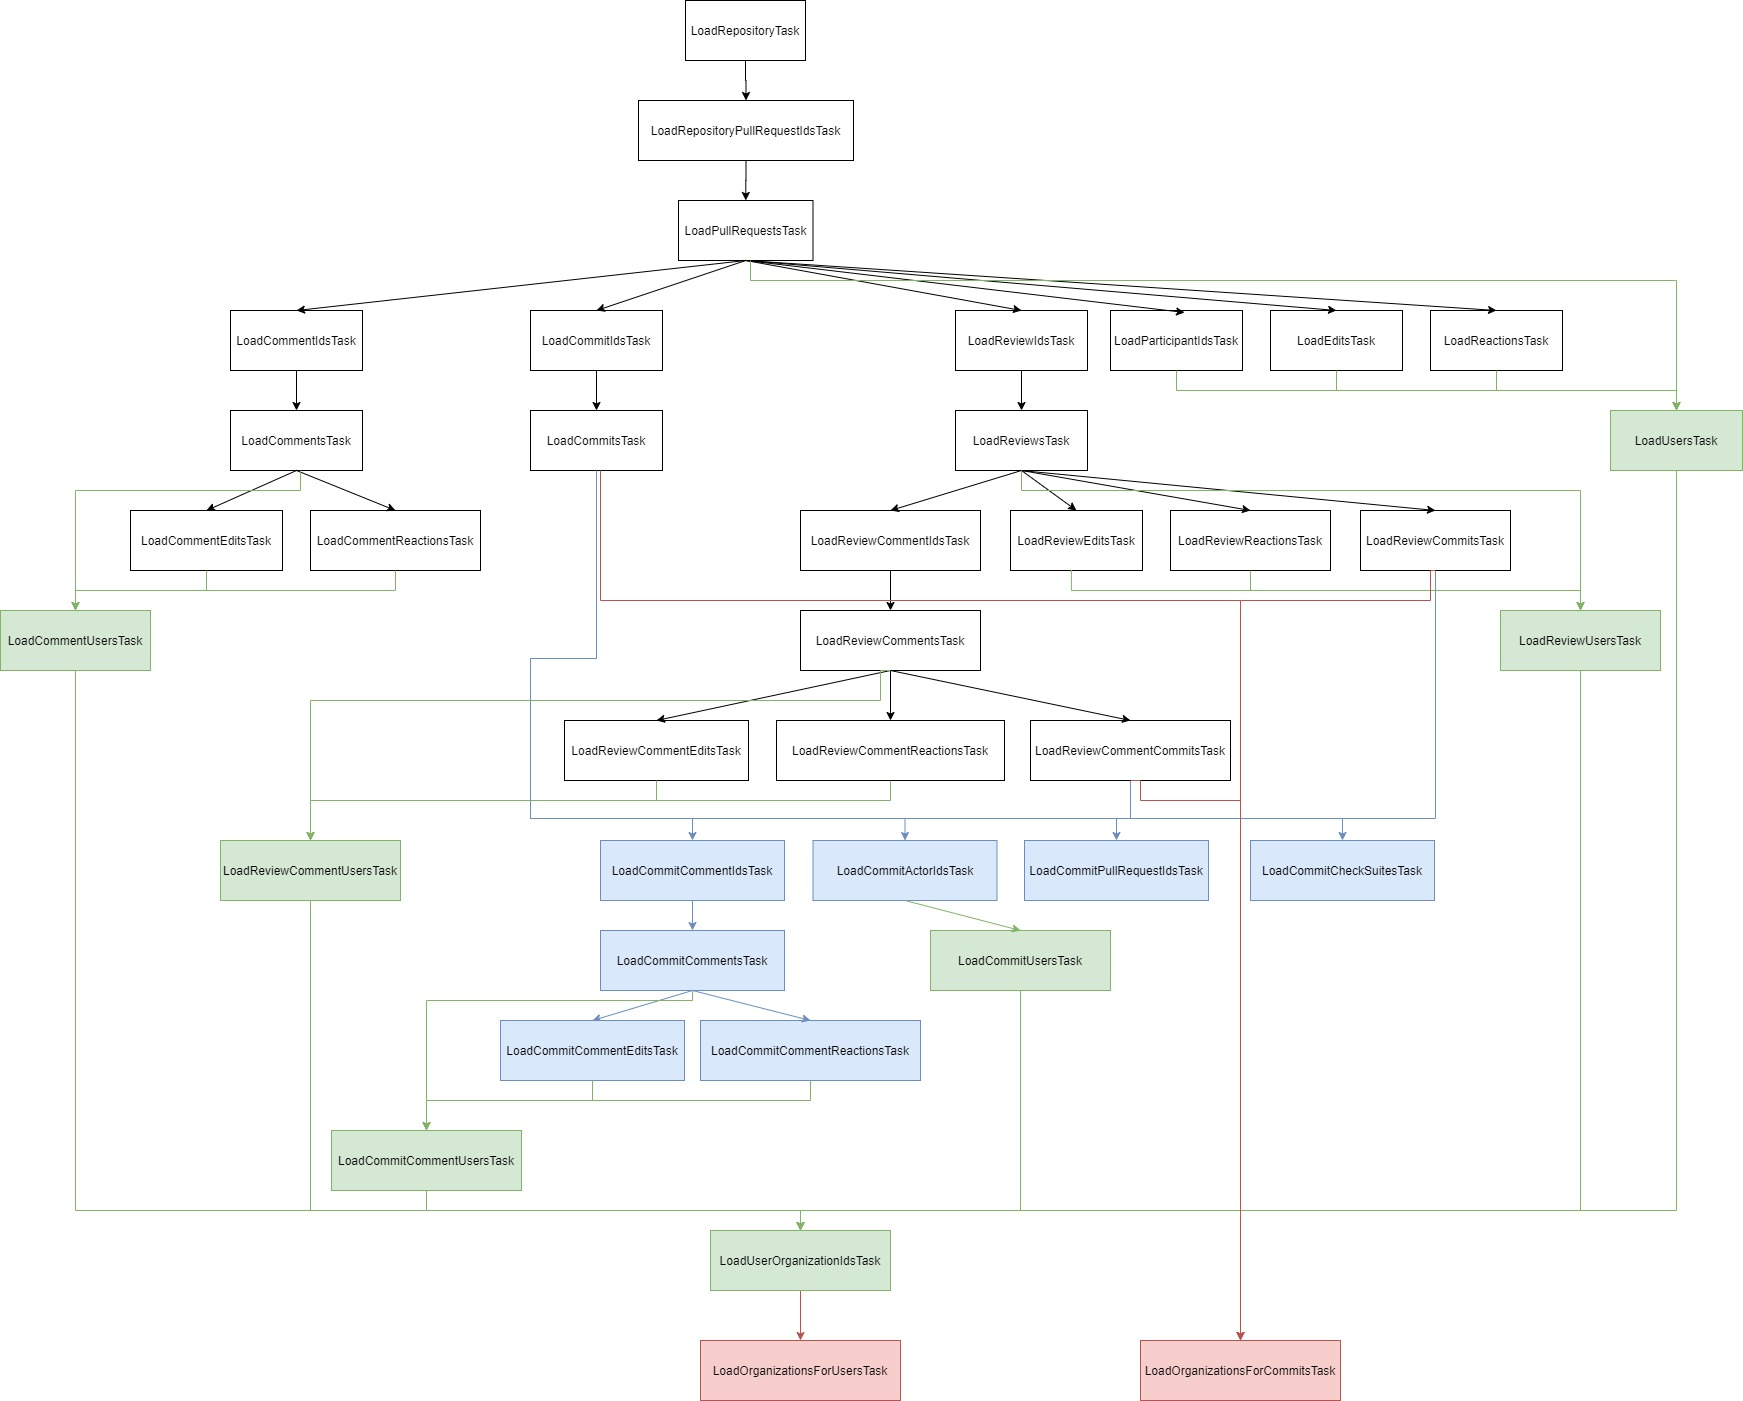
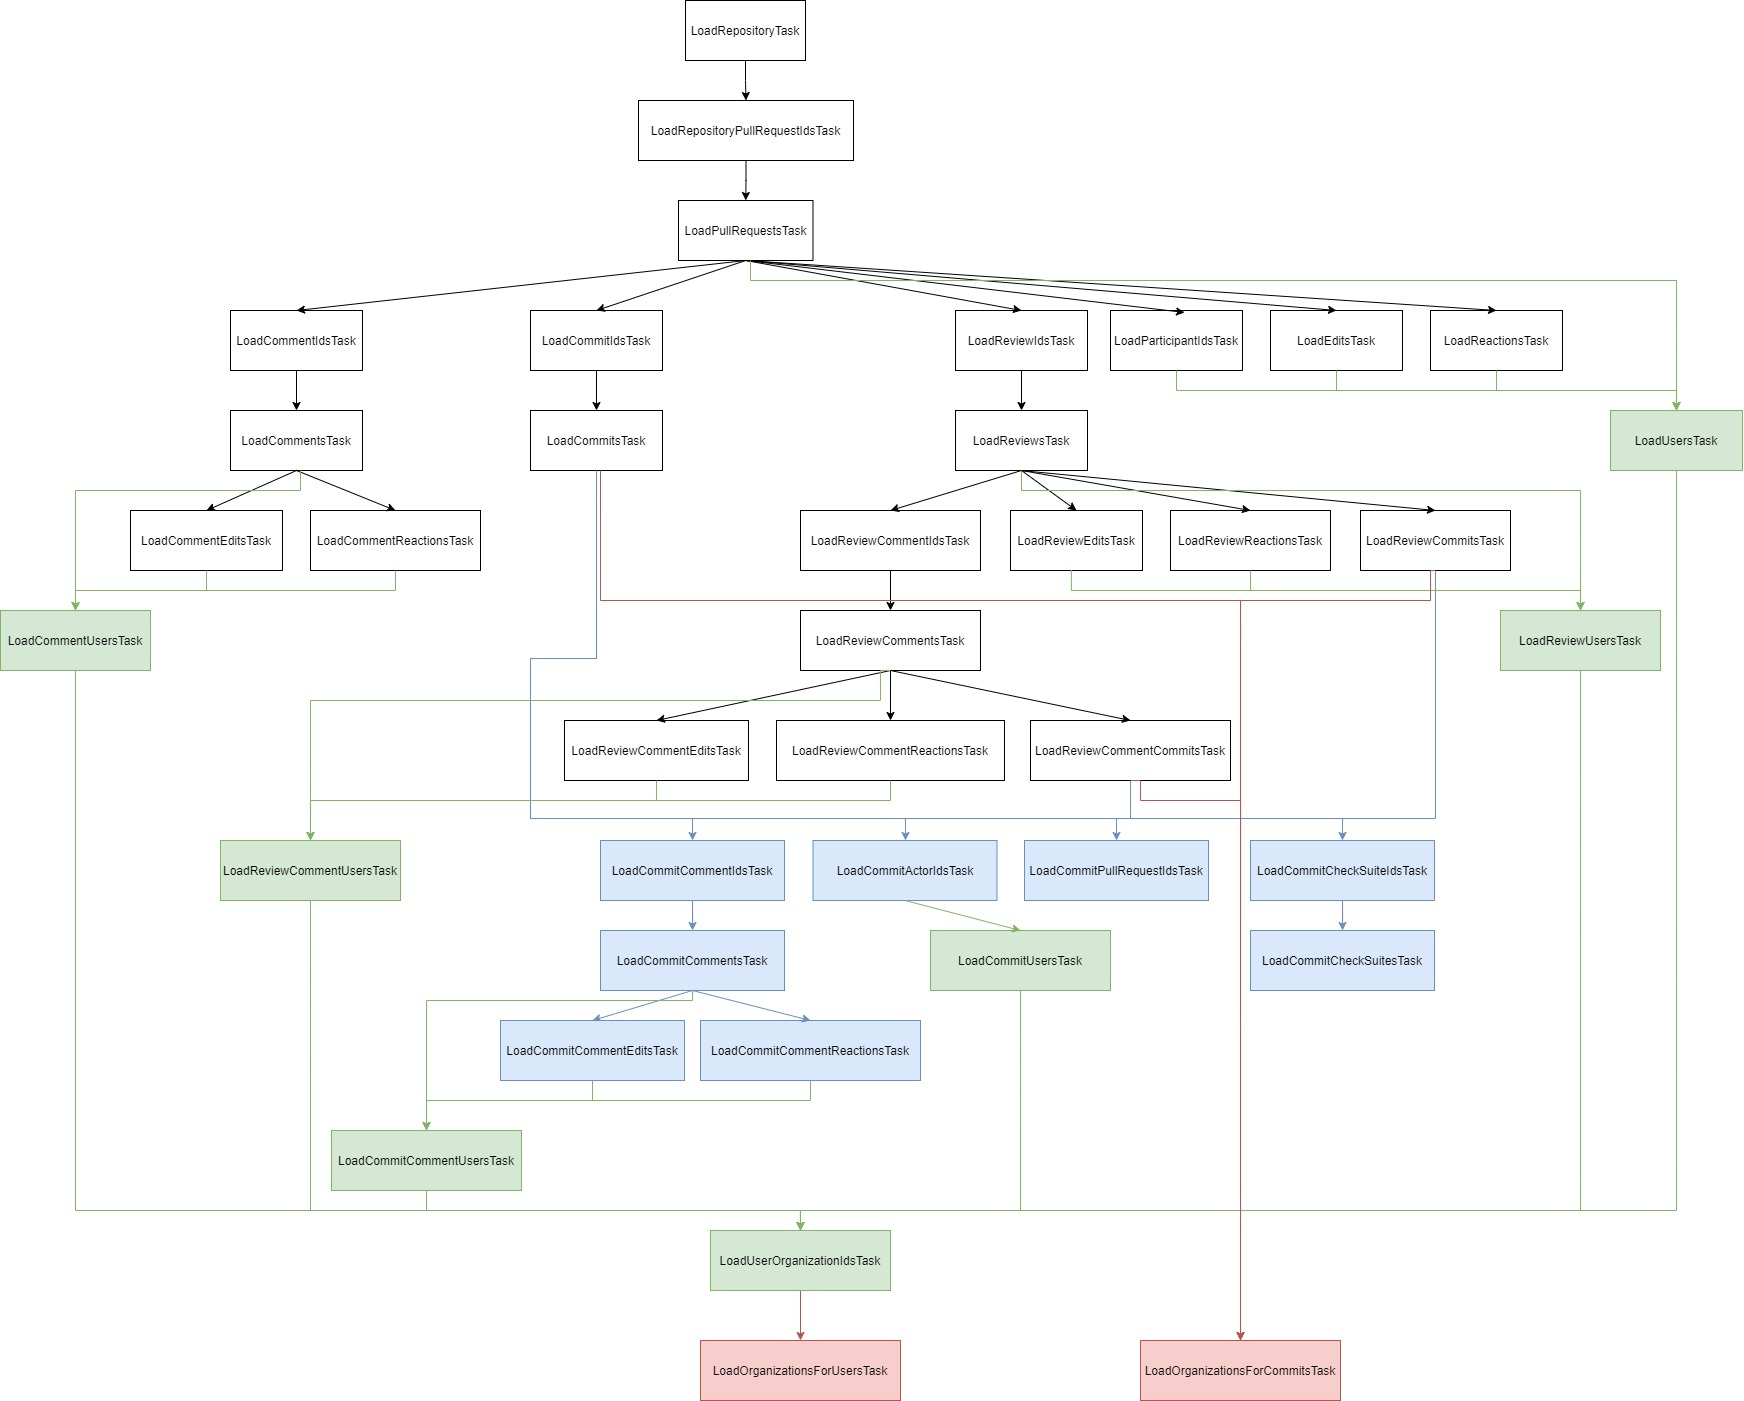
updates for separation of checksuite ids from checksuite task, with unit test

diff --git a/halvemaan/commit.py b/halvemaan/commit.py
@@ -775,3 +775,118 @@ class LoadCommitCommentIdsTask(repository.GitSingleRepositoryTask, actor.GitActo
 
     if __name__ == '__main__':
         luigi.run()
+
+
+class LoadCommitCheckSuiteIdsTask(repository.GitSingleRepositoryTask, actor.GitActorLookupMixin):
+    """
+    Task for loading check suite ids for saved commits
+    """
+
+    def requires(self):
+        return [LoadCommitsTask(owner=self.owner, name=self.name),
+                LoadReviewCommitsTask(owner=self.owner, name=self.name),
+                LoadReviewCommentCommitsTask(owner=self.owner, name=self.name)]
+
+    def run(self):
+        """
+        loads the check suite ids from the commits for a specific repository
+        :return: None
+        """
+        commits_reviewed: int = 0
+
+        commit_count = self._get_objects_saved_count(self.repository, base.ObjectType.COMMIT)
+
+        commits = self._get_collection().find({'repository_id': self.repository.id,
+                                               'object_type': base.ObjectType.COMMIT.name})
+        for item in commits:
+            commit_id: str = item['id']
+            check_suites_expected: int = item['total_check_suites']
+            check_suite_ids: [str] = []
+            check_suite_cursor: str = None
+            commits_reviewed += 1
+
+            if check_suites_expected > len(item['check_suite_ids']):
+                while check_suites_expected > len(check_suite_ids):
+                    logging.debug(
+                        f'running query for check suite ids for commit [{commit_id}] against {self.repository}'
+                    )
+                    query = self._commit_check_suite_query(commit_id, check_suite_cursor)
+                    response_json = self.graph_ql_client.execute_query(query)
+                    logging.debug(
+                        f'query complete for check suite ids for commit [{commit_id}] against {self.repository}'
+                    )
+
+                    # iterate over each check suite returned (we return 100 at a time)
+                    for edge in response_json["data"]["node"]["checkSuites"]["edges"]:
+                        check_suite_cursor = edge["cursor"]
+                        check_suite_ids.append(edge["node"]["id"])
+
+                self._get_collection().update_one({'id': commit_id},
+                                                  {'$set': {'check_suite_ids': check_suite_ids}})
+
+            logging.debug(f'commits reviewed for {self.repository} {commits_reviewed}/{commit_count}')
+
+        actual_count: int = self._get_actual_results()
+        expected_count: int = self._get_expected_results()
+        logging.debug(
+            f'check suites returned for {self.repository} returned: [{actual_count}], expected: [{expected_count}]'
+        )
+
+    def _get_expected_results(self):
+        """
+        always find the expected number of check suites for the entire repository
+        :return: 0
+        """
+        logging.debug(f'running count query for expected check suite ids for the commits in {self.repository}')
+        commits = self._get_collection().find({'repository_id': self.repository.id,
+                                               'object_type': base.ObjectType.COMMIT.name})
+        expected_count: int = 0
+        for item in commits:
+            expected_count += item['total_check_suites']
+        logging.debug(f'count query complete for expected check suite ids [count: {expected_count}] '
+                      f'for the commits in {self.repository}')
+        return expected_count
+
+    def _get_actual_results(self):
+        """
+        returns the number of saved check suite ids related to commits...
+        :return: integer number
+        """
+        logging.debug(f'running count query for actual check suite ids for the commits in {self.repository}')
+        commits = self._get_collection().find({'repository_id': self.repository.id,
+                                               'object_type': base.ObjectType.COMMIT.name})
+        actual_count: int = 0
+        for item in commits:
+            actual_count += len(item['check_suite_ids'])
+        logging.debug(f'count query complete for actual check suite ids [count: {actual_count}] '
+                      f'for the commits in {self.repository}')
+        return actual_count
+
+    @staticmethod
+    def _commit_check_suite_query(commit_id: str, check_suite_cursor: str) -> str:
+        # static method for getting the query for a specific commit
+
+        after = ''
+        if check_suite_cursor:
+            after = ', after:"' + check_suite_cursor + '", '
+
+        query = """
+        {
+          node(id: \"""" + commit_id + """\") {
+            ... on Commit {
+              checkSuites(first: 100""" + after + """) {
+                edges {
+                  cursor
+                  node {
+                    id
+                  }
+                }
+              }
+            }
+          }
+        }
+        """
+        return query
+
+    if __name__ == '__main__':
+        luigi.run()

diff --git a/test/commit/test_load_commit_check_suite_ids_task.py b/test/commit/test_load_commit_check_suite_ids_task.py
@@ -1,0 +1,79 @@
+# -*- coding: utf-8 -*-
+#
+# Copyright 2020 Chris Myers
+#
+# Licensed under the Apache License, Version 2.0 (the "License");
+# you may not use this file except in compliance with the License.
+# You may obtain a copy of the License at
+#
+# http://www.apache.org/licenses/LICENSE-2.0
+#
+# Unless required by applicable law or agreed to in writing, software
+# distributed under the License is distributed on an "AS IS" BASIS,
+# WITHOUT WARRANTIES OR CONDITIONS OF ANY KIND, either express or implied.
+# See the License for the specific language governing permissions and
+# limitations under the License.
+#
+import unittest
+
+import luigi
+
+from halvemaan import pull_request, commit, base
+from test import CaseSetup
+
+
+class LoadCommitPullRequestIdsTaskTestCase(unittest.TestCase):
+    """ Tests the loading of commits associated to pull request documents into the mongo database """
+
+    def setUp(self) -> None:
+        case_setup = CaseSetup()
+        case_setup.cleanup_database()
+
+    def test_no_record_in_database(self):
+        """ checks for insert when no record is in database """
+        case_setup = CaseSetup()
+
+        result = luigi.build([commit.LoadCommitCheckSuiteIdsTask(owner='Netflix', name='dispatch-docker')],
+                             local_scheduler=True, detailed_summary=True)
+        self.assertTrue(CaseSetup.validate_result(result, total_tasks=12, successful_tasks=12))
+
+        # test for task complete after being run successfully
+        result = luigi.build([commit.LoadCommitCheckSuiteIdsTask(owner='Netflix', name='dispatch-docker')],
+                             local_scheduler=True, detailed_summary=True)
+        self.assertTrue(CaseSetup.validate_result(result, total_tasks=1, complete_tasks=1))
+        self._validate_commits(case_setup)
+
+    def test_record_in_database(self):
+        """ checks for insert when repository is in database """
+        case_setup = CaseSetup()
+
+        result = luigi.build([commit.LoadCommitsTask(owner='google', name='ko')],
+                             local_scheduler=True, detailed_summary=True)
+        self.assertTrue(CaseSetup.validate_result(result, total_tasks=5, successful_tasks=5))
+
+        result = luigi.build([commit.LoadReviewCommitsTask(owner='google', name='ko')],
+                             local_scheduler=True, detailed_summary=True)
+        self.assertTrue(CaseSetup.validate_result(result, total_tasks=4, complete_tasks=1, successful_tasks=3))
+
+        result = luigi.build([commit.LoadReviewCommentCommitsTask(owner='google', name='ko')],
+                             local_scheduler=True, detailed_summary=True)
+        self.assertTrue(CaseSetup.validate_result(result, total_tasks=4, complete_tasks=1, successful_tasks=3))
+
+        # test for load after repo data is loaded
+        result = luigi.build([commit.LoadCommitCheckSuiteIdsTask(owner='google', name='ko')],
+                             local_scheduler=True, detailed_summary=True)
+        self.assertTrue(CaseSetup.validate_result(result, total_tasks=4, successful_tasks=1, complete_tasks=3))
+        self._validate_commits(case_setup)
+
+    def _validate_commits(self, case_setup: CaseSetup):
+        expected_pull_request_count = 0
+        actual_pull_request_id_count = 0
+        commits = case_setup.mongo_collection.find({'object_type': base.ObjectType.COMMIT.name})
+        for item in commits:
+            expected_pull_request_count += item['total_check_suites']
+            actual_pull_request_id_count += len(item['check_suite_ids'])
+        self.assertEqual(expected_pull_request_count, actual_pull_request_id_count)
+
+
+if __name__ == '__main__':
+    unittest.main()
